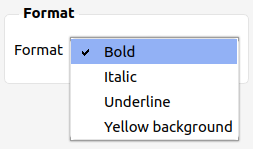
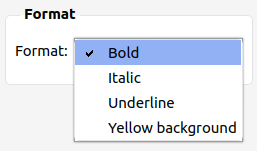
Update docs

diff --git a/docs-template/addon-info-description.md b/docs-template/addon-info-description.md
@@ -18,7 +18,7 @@ fields:
 
 ![](https://raw.githubusercontent.com/Aleks-Ya/cross-field-highlighter-anki-addon/master/docs/images/editor-buttons.png)
 
-### "Highlight" dialog
+### Highlight dialog
 
 ![](https://raw.githubusercontent.com/Aleks-Ya/cross-field-highlighter-anki-addon/master/docs/images/dialog-highlight.png)
 
@@ -39,7 +39,7 @@ fields:
 
 ![](https://raw.githubusercontent.com/Aleks-Ya/cross-field-highlighter-anki-addon/master/docs/images/statistics-highlight.png)
 
-### "Erase" dialog (removes previously added highlighting)
+### Erase dialog (removes previously added highlighting)
 
 ![](https://raw.githubusercontent.com/Aleks-Ya/cross-field-highlighter-anki-addon/master/docs/images/dialog-erase.png)
 

diff --git a/docs/addon-info-description.md b/docs/addon-info-description.md
@@ -18,7 +18,7 @@ fields:
 
 ![](https://raw.githubusercontent.com/Aleks-Ya/cross-field-highlighter-anki-addon/master/docs/images/editor-buttons.png)
 
-### "Highlight" dialog
+### Highlight dialog
 
 ![](https://raw.githubusercontent.com/Aleks-Ya/cross-field-highlighter-anki-addon/master/docs/images/dialog-highlight.png)
 
@@ -39,7 +39,7 @@ fields:
 
 ![](https://raw.githubusercontent.com/Aleks-Ya/cross-field-highlighter-anki-addon/master/docs/images/statistics-highlight.png)
 
-### "Erase" dialog (removes previously added highlighting)
+### Erase dialog (removes previously added highlighting)
 
 ![](https://raw.githubusercontent.com/Aleks-Ya/cross-field-highlighter-anki-addon/master/docs/images/dialog-erase.png)
 

diff --git a/CHANGELOG.md b/CHANGELOG.md
@@ -82,3 +82,10 @@
 ## [v1.0.1](https://github.com/Aleks-Ya/cross-field-highlighter-anki-addon/releases/tag/v1.0.1) - 2024-12-29
 
 1. __[BUG]__ Fix Editor shortcuts
+
+## [v1.1.0](https://github.com/Aleks-Ya/cross-field-highlighter-anki-addon/releases/tag/v1.1.0) - 2025-01-02
+
+1. __[FEATURE]__ Add "Select all" and "Select none" buttons
+2. __[FEATURE]__ Disable Start button when no destination fields are selected
+3. __[BUG]__ Align UI elements
+4. __[BUG]__ Fix error when no notes are selected

diff --git a/docs/developer-manual.md b/docs/developer-manual.md
@@ -111,3 +111,5 @@ Run: `./deploy_locally.sh ~/.local/share/Anki2/addons21/cross_field_highlighter`
 
 Highlight Editor button: https://icon-icons.com/icon/highlight/96729
 Erase Editor button: https://icon-icons.com/icon/rubber/96712
+Select all: https://icon-icons.com/icon/select-all-on-regular/204978
+Select none: https://icon-icons.com/icon/select-all-off-regular/204236
